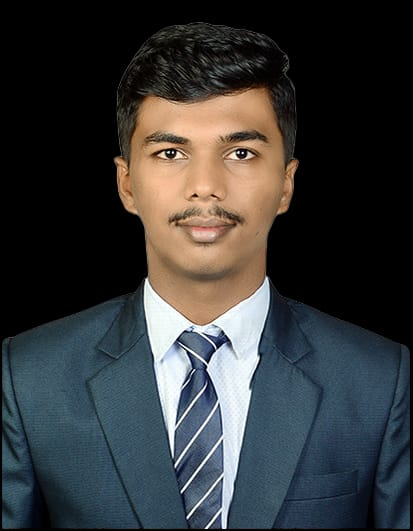
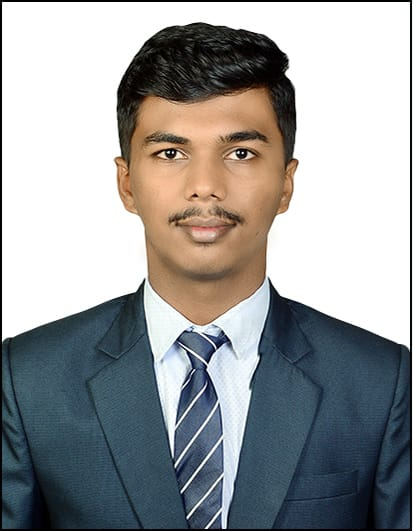
Update profile photo and add English text decoration
Replace profile photo with a transparent PNG and add a new SVG with vertical English text decoration.

Replit-Commit-Author: Agent
Replit-Commit-Session-Id: a4a96335-1ab8-4a5d-8faf-2527b4e11403
Replit-Commit-Checkpoint-Type: full_checkpoint
Replit-Commit-Event-Id: 9deae07e-c77a-4ecd-a973-e82aeeb682ec
Replit-Commit-Screenshot-Url: https://storage.googleapis.com/screenshot-production-us-central1/5de311ba-9508-408f-bb8e-369f38accfc1/a4a96335-1ab8-4a5d-8faf-2527b4e11403/IA5CD8e
Replit-Helium-Checkpoint-Created: true

diff --git a/app/routes/home/profile.module.css b/app/routes/home/profile.module.css
@@ -270,6 +270,26 @@
 }
 
 /* ═══════════════════════════════════════════════════════════
+   ENGLISH VERTICAL TEXT DECORATION
+═══════════════════════════════════════════════════════════ */
+
+.svg {
+  position: absolute;
+  right: 0;
+  bottom: 0;
+  transform: translate3d(50%, -20%, 0);
+  height: 100%;
+  z-index: 3;
+  opacity: 0;
+  transition: opacity var(--durationM) ease var(--durationL);
+  fill: var(--textTitle);
+
+  &[data-visible='true'] {
+    opacity: 1;
+  }
+}
+
+/* ═══════════════════════════════════════════════════════════
    CORNER BRACKET DECORATIONS
 ═══════════════════════════════════════════════════════════ */
 

diff --git a/app/routes/home/profile.jsx b/app/routes/home/profile.jsx
@@ -6,6 +6,7 @@ import { Section } from '~/components/section';
 import { Text } from '~/components/text';
 import { Transition } from '~/components/transition';
 import { Fragment, useState } from 'react';
+import profileEn from './profile-en.svg';
 import styles from './profile.module.css';
 
 const ProfileText = ({ visible, titleId }) => (
@@ -115,10 +116,13 @@ export const Profile = ({ id, visible, sectionRef }) => {
                 <span className={styles.cornerBR} aria-hidden="true" />
 
                 <img
-                  src="/aniket-photo.jpeg"
+                  src="/aniket-photo.png"
                   alt="Aniket Adhav — Full Stack Web and Android Developer"
                   className={styles.photo}
                 />
+                <svg className={styles.svg} data-visible={visible} viewBox="0 0 136 766">
+                  <use href={`${profileEn}#profile-en`} />
+                </svg>
 
                 {/* Floating name badge */}
                 <div className={styles.badge} data-visible={visible}>
